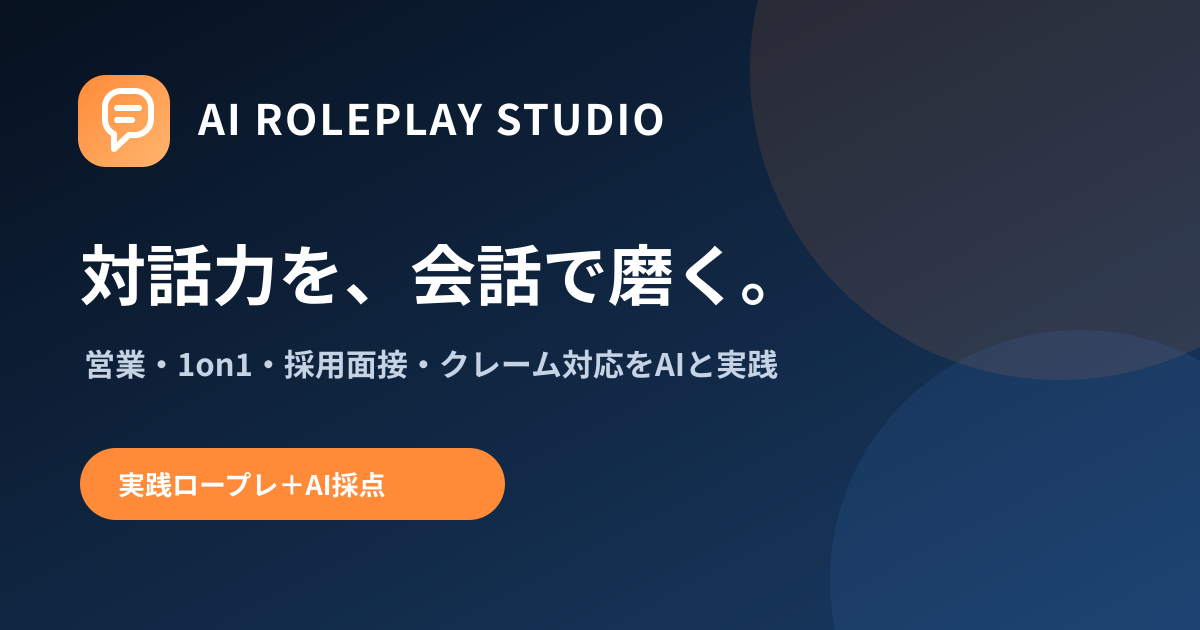
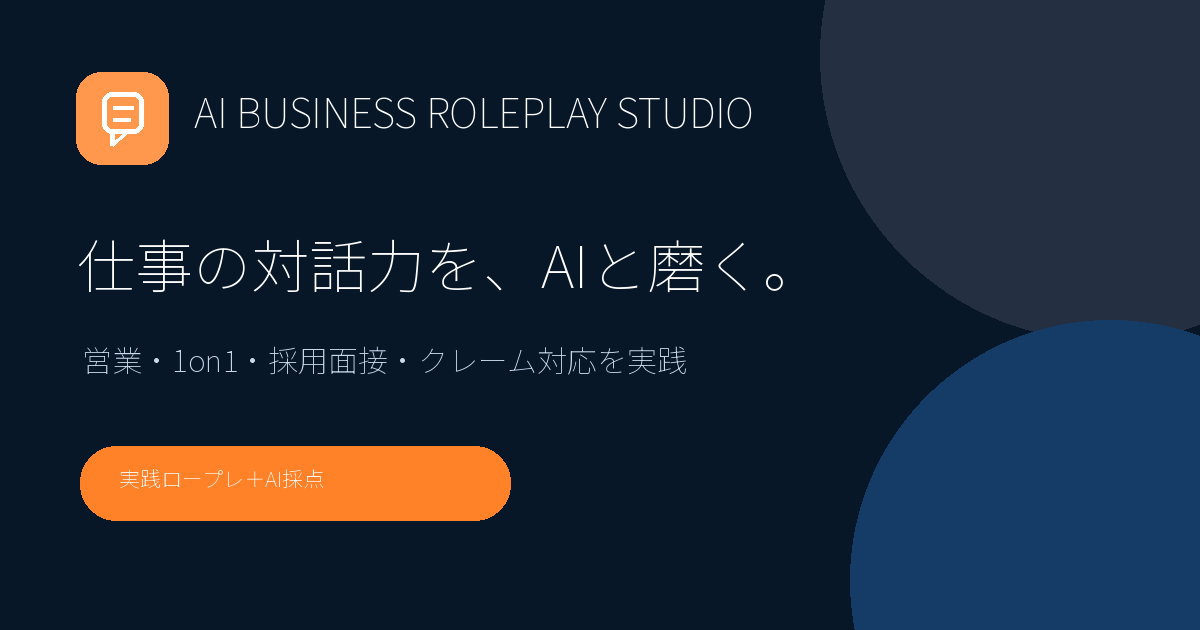
Add business roleplay branding and onboarding guide

diff --git a/public/index.html b/public/index.html
@@ -4,9 +4,9 @@
   <meta charset="utf-8">
   <meta name="viewport" content="width=device-width,initial-scale=1,viewport-fit=cover,interactive-widget=resizes-content">
   <meta name="theme-color" content="#07111f">
-  <meta name="description" content="AI顧客・部下・応募者との実践対話で、営業商談、1on1、採用面接、クレーム対応を練習。AI採点とフィードバックを受けられる無料体験付きロールプレイ研修アプリです。">
+  <meta name="description" content="AI顧客・部下・応募者との実践対話で、営業商談、1on1、採用面接、クレーム対応を練習。会話終了後にAIが採点し、良かった点と改善ポイントを具体的に提示します。ゲスト無料体験に対応。">
   <meta name="robots" content="index,follow,max-image-preview:large,max-snippet:-1,max-video-preview:-1">
-  <meta name="application-name" content="AI ROLEPLAY STUDIO">
+  <meta name="application-name" content="AIビジネスロールプレイスタジオ">
   <meta name="author" content="Grit Strategy Works">
   <meta name="google-site-verification" content="zbpYn_l9DVdW1Ev0OZdQOJDWLreuTin9i0nqUele1Mo">
   <meta name="google-adsense-account" content="ca-pub-5840457424714744">
@@ -14,17 +14,17 @@
   <link rel="alternate" hreflang="ja" href="https://roleplay.gritstrategyworks.com/">
   <link rel="alternate" hreflang="x-default" href="https://roleplay.gritstrategyworks.com/">
   <meta property="og:type" content="website">
-  <meta property="og:site_name" content="AI ROLEPLAY STUDIO">
+  <meta property="og:site_name" content="AIビジネスロールプレイスタジオ">
   <meta property="og:locale" content="ja_JP">
-  <meta property="og:title" content="AIロープレ研修｜営業・1on1・採用面接をAIと実践">
+  <meta property="og:title" content="AIビジネスロールプレイスタジオ｜営業・1on1・採用面接をAIと実践">
   <meta property="og:description" content="AI顧客や部下との対話で、営業商談・1on1・採用面接・クレーム対応を実践。終了後にAIが採点します。">
   <meta property="og:url" content="https://roleplay.gritstrategyworks.com/">
   <meta property="og:image" content="https://roleplay.gritstrategyworks.com/assets/og-image.png">
   <meta property="og:image:width" content="1200">
   <meta property="og:image:height" content="630">
-  <meta property="og:image:alt" content="AI ROLEPLAY STUDIOでAI相手に実践ロールプレイ研修">
+  <meta property="og:image:alt" content="AIビジネスロールプレイスタジオで仕事の対話を実践">
   <meta name="twitter:card" content="summary_large_image">
-  <meta name="twitter:title" content="AIロープレ研修｜AI ROLEPLAY STUDIO">
+  <meta name="twitter:title" content="AIビジネスロールプレイスタジオ｜AIロープレ研修">
   <meta name="twitter:description" content="営業・1on1・採用面接・クレーム対応をAI相手に実践し、採点と改善点を確認できます。">
   <meta name="twitter:image" content="https://roleplay.gritstrategyworks.com/assets/og-image.png">
   <script async src="https://pagead2.googlesyndication.com/pagead/js/adsbygoogle.js?client=ca-pub-5840457424714744" crossorigin="anonymous"></script>
@@ -36,17 +36,17 @@
     gtag('js', new Date());
     gtag('config', 'G-XH93D31BKJ');
   </script>
-  <title>AIロープレ研修｜営業・1on1・採用面接をAIと実践</title>
+  <title>AIビジネスロールプレイスタジオ｜営業・1on1・採用面接をAIと実践</title>
   <link rel="manifest" href="manifest.webmanifest">
   <link rel="icon" href="assets/icon.svg" type="image/svg+xml">
-  <link rel="stylesheet" href="styles.css?v=1.43">
-  <link rel="stylesheet" href="auth.css?v=1.43">
+  <link rel="stylesheet" href="styles.css?v=1.44">
+  <link rel="stylesheet" href="auth.css?v=1.44">
   <script type="application/ld+json">
   {
     "@context": "https://schema.org",
     "@type": "WebApplication",
-    "name": "AI ROLEPLAY STUDIO",
-    "alternateName": "AIロープレ",
+    "name": "AIビジネスロールプレイスタジオ",
+    "alternateName": ["AI Business Roleplay Studio", "AIロープレスタジオ"],
     "url": "https://roleplay.gritstrategyworks.com/",
     "image": "https://roleplay.gritstrategyworks.com/assets/og-image.png",
     "description": "AI顧客・部下・応募者との対話で、営業商談、1on1、採用面接、クレーム対応を練習できるロールプレイ研修アプリ。",
@@ -64,7 +64,7 @@
 <div id="authGate" class="auth-gate">
   <div class="auth-layout">
     <section class="auth-intro">
-      <div class="auth-brand"><span class="brand-mark" aria-hidden="true"><svg viewBox="0 0 24 24" fill="none"><path d="M6 8.2A4.2 4.2 0 0 1 10.2 4h3.6A4.2 4.2 0 0 1 18 8.2v3.1a4.2 4.2 0 0 1-4.2 4.2h-1.3L9 19v-3.5A4.2 4.2 0 0 1 6 11.3V8.2Z" stroke="white" stroke-width="2" stroke-linejoin="round"/><path d="M9 9h6M9 12h4" stroke="white" stroke-width="2" stroke-linecap="round"/></svg></span><span>AI ROLEPLAY STUDIO</span></div>
+      <div class="auth-brand"><span class="brand-mark" aria-hidden="true"><svg viewBox="0 0 24 24" fill="none"><path d="M6 8.2A4.2 4.2 0 0 1 10.2 4h3.6A4.2 4.2 0 0 1 18 8.2v3.1a4.2 4.2 0 0 1-4.2 4.2h-1.3L9 19v-3.5A4.2 4.2 0 0 1 6 11.3V8.2Z" stroke="white" stroke-width="2" stroke-linejoin="round"/><path d="M9 9h6M9 12h4" stroke="white" stroke-width="2" stroke-linecap="round"/></svg></span><span>AI BUSINESS ROLEPLAY STUDIO</span></div>
       <div><div class="eyebrow">AI実践ロールプレイ</div><h1>対話力を、<br>会話で磨く。</h1><p>アカウントで継続利用することも、ログインせずゲストとしてすぐ試すこともできます。</p></div>
       <ul class="auth-features"><li>基本設定と6種類のアバター</li><li>待ち時間を抑えたオンラインAI会話</li><li>入門講義2本は無料、全講義と詳細設定はPremium</li></ul>
     </section>
@@ -90,13 +90,63 @@
       </div>
     </section>
   </div>
+  <section class="auth-showcase" aria-labelledby="serviceOverviewTitle">
+    <div class="auth-showcase-heading">
+      <span class="eyebrow">BUSINESS ROLEPLAY TRAINING</span>
+      <h2 id="serviceOverviewTitle">3分で分かる<br class="mobile-only"> AIビジネスロールプレイスタジオ</h2>
+      <p>AIが顧客・部下・応募者・クレーム相手を演じ、仕事で必要な対話を実践的に練習できるWebアプリです。会話終了後にはAIが対話を採点し、良かった点、改善ポイント、次に使える一言を具体的に提示します。</p>
+    </div>
+    <div class="auth-step-grid" aria-label="利用の3ステップ">
+      <article><span class="auth-step-number">1</span><div class="auth-step-icon" aria-hidden="true">◎</div><h3>練習内容を選ぶ</h3><p>営業・商談、管理職面談、採用面接、クレーム対応から選択します。</p></article>
+      <article><span class="auth-step-number">2</span><div class="auth-step-icon" aria-hidden="true">💬</div><h3>AIと会話する</h3><p>文章入力またはマイクを使って、AIの相手役と実践的に会話します。</p></article>
+      <article><span class="auth-step-number">3</span><div class="auth-step-icon" aria-hidden="true">✓</div><h3>AIの採点を受ける</h3><p>総合・項目別スコア、良かった点、改善ポイント、次に使える一言を確認します。</p></article>
+    </div>
+    <div class="auth-showcase-actions"><button class="primary-btn" type="button" data-auth-guest-cta>ログインせず無料で試す</button><a class="secondary-btn" href="#authPlanComparison">無料版とPremium版を見る</a></div>
+
+    <section class="auth-score-sample" aria-labelledby="scoreSampleTitle">
+      <div class="sample-label">採点結果のサンプル</div>
+      <div class="auth-score-heading"><div><span class="eyebrow">AI FEEDBACK</span><h2 id="scoreSampleTitle">会話が終わると、AIが具体的にフィードバック</h2></div><div class="sample-score"><strong>82</strong><span>点</span><em>ランク A</em></div></div>
+      <div class="auth-score-content">
+        <div class="sample-score-list" aria-label="項目別スコア">
+          <div><span>質問力</span><i style="--score:85%"></i><strong>85</strong></div>
+          <div><span>傾聴力</span><i style="--score:88%"></i><strong>88</strong></div>
+          <div><span>課題把握</span><i style="--score:80%"></i><strong>80</strong></div>
+          <div><span>提案力</span><i style="--score:76%"></i><strong>76</strong></div>
+          <div><span>次の行動の確認</span><i style="--score:81%"></i><strong>81</strong></div>
+        </div>
+        <div class="sample-feedback-list">
+          <article class="good"><h3>✓ 良かった点</h3><p>相手の発言を受け止めながら、課題を具体化する質問ができました。</p></article>
+          <article class="improve"><h3>↗ 改善ポイント</h3><p>提案に入る前に、課題による業務への影響をもう一段深く確認しましょう。</p></article>
+          <article><h3>💬 次に使う一言</h3><p>「その課題によって、現在どのような影響が出ていますか？」</p></article>
+        </div>
+      </div>
+    </section>
+
+    <section id="authPlanComparison" class="auth-plan-comparison" aria-labelledby="authPlanTitle">
+      <div class="auth-showcase-heading"><span class="eyebrow">PLANS</span><h2 id="authPlanTitle">無料で始めて、必要に応じてPremiumへ</h2><p>まずは登録なしで体験できます。継続利用や詳細な分析が必要になったときにアップグレードできます。</p></div>
+      <div class="plan-comparison-table" role="table" aria-label="無料版とPremium版の比較">
+        <div class="plan-comparison-row plan-comparison-head" role="row"><span role="columnheader">機能</span><span role="columnheader">無料版</span><span role="columnheader">Premium</span></div>
+        <div class="plan-comparison-row" role="row"><strong role="cell">AIロールプレイ</strong><span role="cell">利用可能</span><span role="cell">利用可能</span></div>
+        <div class="plan-comparison-row" role="row"><strong role="cell">ロープレ時間</strong><span role="cell">5分</span><span role="cell">5分・10分・15分</span></div>
+        <div class="plan-comparison-row" role="row"><strong role="cell">基本設定</strong><span role="cell">利用可能</span><span role="cell">利用可能</span></div>
+        <div class="plan-comparison-row" role="row"><strong role="cell">詳細設定</strong><span role="cell">利用不可</span><span role="cell">利用可能</span></div>
+        <div class="plan-comparison-row" role="row"><strong role="cell">レクチャー動画</strong><span role="cell">入門2本</span><span role="cell">全16本</span></div>
+        <div class="plan-comparison-row" role="row"><strong role="cell">基本採点</strong><span role="cell">利用可能</span><span role="cell">利用可能</span></div>
+        <div class="plan-comparison-row" role="row"><strong role="cell">項目別スコア・詳細分析</strong><span role="cell">制限あり</span><span role="cell">利用可能</span></div>
+        <div class="plan-comparison-row" role="row"><strong role="cell">広告</strong><span role="cell">表示される場合あり</span><span role="cell">広告なし</span></div>
+        <div class="plan-comparison-row plan-comparison-price" role="row"><strong role="cell">料金</strong><span role="cell"><b>0円</b></span><span role="cell"><b>月額980円</b></span></div>
+      </div>
+      <div class="plan-comparison-actions"><button class="ghost-btn" type="button" data-auth-guest-cta>ログインせず試す</button><button class="primary-btn" type="button" data-auth-premium-cta>月額980円で始める</button></div>
+      <p class="plan-comparison-note">Premiumは1か月ごとの自動更新です。申込みにはアカウント作成が必要です。</p>
+    </section>
+  </section>
 </div>
 <dialog id="authPolicyDialog" class="auth-policy-dialog"><div class="auth-policy-head"><h2 id="authPolicyTitle"></h2><button id="authPolicyClose" type="button" aria-label="閉じる">×</button></div><div id="authPolicyContent" class="auth-policy-content"></div></dialog>
 <div id="appShell" class="app-shell" hidden>
   <header class="topbar">
     <div class="brand" role="button" tabindex="0" onclick="showScreen('home')" onkeydown="if(event.key==='Enter')showScreen('home')">
       <span class="brand-mark" aria-hidden="true"><svg viewBox="0 0 24 24" fill="none"><path d="M6 8.2A4.2 4.2 0 0 1 10.2 4h3.6A4.2 4.2 0 0 1 18 8.2v3.1a4.2 4.2 0 0 1-4.2 4.2h-1.3L9 19v-3.5A4.2 4.2 0 0 1 6 11.3V8.2Z" stroke="white" stroke-width="2" stroke-linejoin="round"/><path d="M9 9h6M9 12h4" stroke="white" stroke-width="2" stroke-linecap="round"/></svg></span>
-      <span class="brand-name">AI ROLEPLAY STUDIO</span>
+      <span class="brand-name"><span class="brand-name-full">AI BUSINESS ROLEPLAY STUDIO</span><span class="brand-name-short">AIロープレスタジオ</span></span>
     </div>
     <div class="top-actions">
       <div id="apiStatus" class="api-status" title="会話機能の利用状態"><span class="api-dot"></span><span id="apiStatusText">接続確認中</span></div>
@@ -261,11 +311,11 @@
           <button class="info-link" data-info="contact" onclick="showInformation('contact')">問い合わせ先</button>
         </nav>
         <div class="info-content">
-          <article id="info-pricing" class="info-section"><div class="status-banner success"><strong>プレミアムプラン申込み受付中</strong><span>Stripeの安全な決済画面でお申し込みいただけます。</span></div><h3>料金</h3><div class="pricing-card"><span>無料プラン</span><strong>0円</strong><p>基本設定、ロールプレイ、文字・マイク入力、総合評価、入門講義2本を利用できます。AdSense承認後は、ロープレ実施中を除く画面に広告が表示される場合があります。</p></div><div class="pricing-card featured"><span>AI Roleplay Studio Premium</span><strong>月額980円（税込）</strong><p>全16講義、研修担当者・上級者向けの詳細設定、項目別スコア、改善ポイント、次に使う一言、相手の本音、会話記録を利用できます。広告は表示されません。1か月ごとの自動更新です。</p><button class="primary-btn" type="button" onclick="startCheckout()">月額980円で申し込む</button></div><p class="legal-warning">申込み時に初回決済が行われ、以後1か月ごとに自動更新されます。次回更新日前まで、設定画面の「契約・支払いを管理」からいつでも解約できます。</p></article>
-<article id="info-operator" class="info-section" hidden><h3>運営者</h3><dl class="legal-list"><div><dt>運営者名</dt><dd>Grit Strategy Works</dd></div><div><dt>サービス名</dt><dd>AI ROLEPLAY STUDIO</dd></div><div><dt>有料プラン</dt><dd>AI Roleplay Studio Premium・月額980円（税込）</dd></div><div><dt>提供状況</dt><dd>申込み受付中</dd></div><div><dt>問い合わせ先</dt><dd><a href="mailto:gritstrategyworks@gmail.com">gritstrategyworks@gmail.com</a></dd></div></dl><p>販売事業者の氏名、運営責任者、所在地、電話番号は、法令に基づく請求があった場合に遅滞なく開示します。</p></article>
-<article id="info-commerce" class="info-section" hidden><h3>特定商取引法に基づく表記</h3><dl class="legal-list"><div><dt>販売事業者</dt><dd>Grit Strategy Works</dd></div><div><dt>運営責任者・所在地・電話番号</dt><dd>請求があった場合、法令に基づき遅滞なく開示します。</dd></div><div><dt>問い合わせ先</dt><dd><a href="mailto:gritstrategyworks@gmail.com">gritstrategyworks@gmail.com</a></dd></div><div><dt>販売価格</dt><dd>AI Roleplay Studio Premium：月額980円（税込）</dd></div><div><dt>商品代金以外の負担</dt><dd>インターネット接続・通信に必要な費用は利用者負担です。</dd></div><div><dt>支払方法・支払時期</dt><dd>Stripeの決済画面に表示される支払方法。申込み時に初回決済し、以後1か月ごとに自動更新します。</dd></div><div><dt>サービス提供時期</dt><dd>決済完了と契約状態の確認後、プレミアム機能を利用できます。</dd></div><div><dt>解約</dt><dd>設定画面からStripeの契約管理画面を開き、次回更新日前までいつでも解約できます。解約後も支払済み期間の終了まで利用できます。</dd></div><div><dt>返金</dt><dd>デジタルサービスの性質上、利用者都合による日割り返金は行いません。重複決済、サービスを提供できなかった場合、または法令上必要な場合は確認のうえ対応します。</dd></div></dl><p class="reference-links"><a href="https://www.no-trouble.caa.go.jp/what/mailorder/advertising.html" target="_blank" rel="noopener">消費者庁・特定商取引法ガイド</a></p></article>
-<article id="info-terms" class="info-section" hidden><h3>利用規約</h3><p class="policy-date">改定日：2026年8月11日</p><h4>1. 適用</h4><p>本規約は、Grit Strategy Worksが提供するAI ROLEPLAY STUDIOの利用条件を定めます。利用者は本規約に同意して本サービスを利用します。</p><h4>2. アカウント</h4><p>利用者は正確な情報でアカウントを作成し、パスワードとログイン端末を適切に管理します。第三者による不正利用を確認した場合は速やかにログアウトしてください。</p><h4>3. サービスの性質</h4><p>本サービスは対話練習を支援するもので、AIの応答・採点は参考情報です。正確性、完全性、特定目的への適合を保証するものではなく、採用・人事評価・契約・苦情処理などの最終判断は利用者が行います。</p><h4>4. 有料プラン</h4><p>Premiumは月額980円（税込）の1か月ごとの自動更新です。利用者が次回更新日前に解約しない限り契約は更新されます。価格や内容を変更する場合は、適用前にサイト上で案内します。</p><h4>5. 禁止事項</h4><p>法令違反、第三者の権利侵害、個人情報・機密情報の不適切な入力、サービスへの不正アクセス、過度な負荷、解析・転用による妨害を禁止します。</p><h4>6. 知的財産</h4><p>本サービスのプログラム、デザイン、画像等の権利は運営者または正当な権利者に帰属します。利用者が入力する内容の権利は利用者に留保されます。</p><h4>7. 変更・停止</h4><p>保守、障害、仕様改善、法令対応等によりサービス内容を変更または停止することがあります。重要な変更はサイト上で告知します。</p><h4>8. 準拠法</h4><p>本規約は日本法に準拠します。紛争が生じた場合は、法令に従い管轄裁判所を定めます。</p></article>
-          <article id="info-privacy" class="info-section" hidden><h3>プライバシーポリシー</h3><p class="policy-date">改定日：2026年8月12日</p><h4>取得・処理する情報</h4><p>ログイン用メールアドレス、ログイン状態を保つための情報、ロープレ設定、文字に変換された会話内容、採点結果、利用設定、接続状況に関する情報を処理する場合があります。パスワードは安全な方式で保護し、入力された文字列のまま保存しません。成績・設定・履歴は原則としてこの端末内に保存されます。音声入力では端末の音声認識機能を利用し、本サービスは録音データを保存しません。</p><h4>利用目的</h4><p>ロープレ応答・採点の提供、履歴表示、品質・安全性の維持、不正利用防止、問い合わせ対応、利用状況の分析、サービス改善、決済・契約管理、広告の配信・効果測定、法令遵守のために利用します。</p><h4>外部サービス・委託</h4><p>AI応答とサイト配信にCloudflareのクラウドサービス、利用状況の分析と広告配信にGoogle Analytics・Google AdSense、レクチャー動画の再生にYouTube、Premiumの決済・契約管理にStripe、共有用QRコードの生成にQR Serverを利用します。GoogleのサービスはCookie等を使用してページ閲覧、端末・ブラウザ、参照元、広告に関する情報を収集する場合があります。QR Serverへ送信するのは公開中のアプリURLのみで、アカウント情報やロープレの会話内容は送信しません。AIとの会話・採点に入力した内容は、応答生成のためCloudflare上のAI機能へ送信されます。ブラウザの音声認識・読み上げ機能を利用する場合、それぞれの提供者の条件が適用されます。</p><h4>利用者による管理</h4><p>設定画面の「全データ削除」で端末内の成績・設定・履歴を削除できます。Cookieはブラウザ設定で無効化できます。入力内容には第三者の個人情報、営業秘密、要配慮情報を含めないでください。</p><h4>安全管理・開示等</h4><p>アクセス制御、通信の暗号化、必要最小限の処理等を行います。保有個人データの開示・訂正・利用停止等は、問い合わせ先に記載のメールアドレスで受け付けます。</p><p class="reference-links"><a href="https://policies.google.com/privacy?hl=ja" target="_blank" rel="noopener">Googleプライバシーポリシー</a> <a href="https://stripe.com/jp/privacy" target="_blank" rel="noopener">Stripeプライバシーポリシー</a> <a href="https://goqr.me/privacy/" target="_blank" rel="noopener">QR Serverプライバシーポリシー</a> <a href="https://www.ppc.go.jp/personalinfo/legal/guidelines_tsusoku/" target="_blank" rel="noopener">個人情報保護委員会ガイドライン</a></p></article>
+          <article id="info-pricing" class="info-section"><div class="status-banner success"><strong>Premiumプラン申込み受付中</strong><span>Stripeの安全な決済画面でお申し込みいただけます。</span></div><h3>無料で始めて、必要に応じてPremiumへ</h3><p>無料版でも基本のロールプレイと採点を利用できます。より長い練習、詳細設定、詳しい分析、全レクチャーが必要な場合はPremiumをご利用ください。</p><div class="plan-comparison-table info-plan-table" role="table" aria-label="無料版とPremium版の比較"><div class="plan-comparison-row plan-comparison-head" role="row"><span role="columnheader">機能</span><span role="columnheader">無料版</span><span role="columnheader">Premium</span></div><div class="plan-comparison-row" role="row"><strong role="cell">AIロールプレイ</strong><span role="cell">利用可能</span><span role="cell">利用可能</span></div><div class="plan-comparison-row" role="row"><strong role="cell">ロープレ時間</strong><span role="cell">5分</span><span role="cell">5分・10分・15分</span></div><div class="plan-comparison-row" role="row"><strong role="cell">基本設定</strong><span role="cell">利用可能</span><span role="cell">利用可能</span></div><div class="plan-comparison-row" role="row"><strong role="cell">詳細設定</strong><span role="cell">利用不可</span><span role="cell">利用可能</span></div><div class="plan-comparison-row" role="row"><strong role="cell">レクチャー動画</strong><span role="cell">入門2本</span><span role="cell">全16本</span></div><div class="plan-comparison-row" role="row"><strong role="cell">基本採点</strong><span role="cell">利用可能</span><span role="cell">利用可能</span></div><div class="plan-comparison-row" role="row"><strong role="cell">項目別スコア・詳細分析</strong><span role="cell">制限あり</span><span role="cell">利用可能</span></div><div class="plan-comparison-row" role="row"><strong role="cell">広告</strong><span role="cell">表示される場合あり</span><span role="cell">広告なし</span></div><div class="plan-comparison-row plan-comparison-price" role="row"><strong role="cell">料金</strong><span role="cell"><b>0円</b></span><span role="cell"><b>月額980円</b></span></div></div><div class="plan-comparison-actions"><button class="ghost-btn" type="button" onclick="showScreen('home')">無料版でロープレを始める</button><button class="primary-btn" type="button" onclick="startCheckout()">月額980円で始める</button></div><p class="legal-warning">Premiumは申込み時に初回決済が行われ、以後1か月ごとに自動更新されます。次回更新日前まで、設定画面の「契約・支払いを管理」からいつでも解約できます。</p></article>
+<article id="info-operator" class="info-section" hidden><h3>運営者</h3><dl class="legal-list"><div><dt>運営者名</dt><dd>Grit Strategy Works</dd></div><div><dt>サービス名</dt><dd>AIビジネスロールプレイスタジオ</dd></div><div><dt>有料プラン</dt><dd>AIビジネスロールプレイスタジオ Premium・月額980円（税込）</dd></div><div><dt>提供状況</dt><dd>申込み受付中</dd></div><div><dt>問い合わせ先</dt><dd><a href="mailto:gritstrategyworks@gmail.com">gritstrategyworks@gmail.com</a></dd></div></dl><p>販売事業者の氏名、運営責任者、所在地、電話番号は、法令に基づく請求があった場合に遅滞なく開示します。</p></article>
+<article id="info-commerce" class="info-section" hidden><h3>特定商取引法に基づく表記</h3><dl class="legal-list"><div><dt>販売事業者</dt><dd>Grit Strategy Works</dd></div><div><dt>運営責任者・所在地・電話番号</dt><dd>請求があった場合、法令に基づき遅滞なく開示します。</dd></div><div><dt>問い合わせ先</dt><dd><a href="mailto:gritstrategyworks@gmail.com">gritstrategyworks@gmail.com</a></dd></div><div><dt>販売価格</dt><dd>AIビジネスロールプレイスタジオ Premium：月額980円（税込）</dd></div><div><dt>商品代金以外の負担</dt><dd>インターネット接続・通信に必要な費用は利用者負担です。</dd></div><div><dt>支払方法・支払時期</dt><dd>Stripeの決済画面に表示される支払方法。申込み時に初回決済し、以後1か月ごとに自動更新します。</dd></div><div><dt>サービス提供時期</dt><dd>決済完了と契約状態の確認後、プレミアム機能を利用できます。</dd></div><div><dt>解約</dt><dd>設定画面からStripeの契約管理画面を開き、次回更新日前までいつでも解約できます。解約後も支払済み期間の終了まで利用できます。</dd></div><div><dt>返金</dt><dd>デジタルサービスの性質上、利用者都合による日割り返金は行いません。重複決済、サービスを提供できなかった場合、または法令上必要な場合は確認のうえ対応します。</dd></div></dl><p class="reference-links"><a href="https://www.no-trouble.caa.go.jp/what/mailorder/advertising.html" target="_blank" rel="noopener">消費者庁・特定商取引法ガイド</a></p></article>
+<article id="info-terms" class="info-section" hidden><h3>利用規約</h3><p class="policy-date">改定日：2026年8月15日</p><h4>1. 適用</h4><p>本規約は、Grit Strategy Worksが提供するAIビジネスロールプレイスタジオの利用条件を定めます。利用者は本規約に同意して本サービスを利用します。</p><h4>2. アカウント</h4><p>利用者は正確な情報でアカウントを作成し、パスワードとログイン端末を適切に管理します。第三者による不正利用を確認した場合は速やかにログアウトしてください。</p><h4>3. サービスの性質</h4><p>本サービスは対話練習を支援するもので、AIの応答・採点は参考情報です。正確性、完全性、特定目的への適合を保証するものではなく、採用・人事評価・契約・苦情処理などの最終判断は利用者が行います。</p><h4>4. 有料プラン</h4><p>Premiumは月額980円（税込）の1か月ごとの自動更新です。利用者が次回更新日前に解約しない限り契約は更新されます。価格や内容を変更する場合は、適用前にサイト上で案内します。</p><h4>5. 禁止事項</h4><p>法令違反、第三者の権利侵害、個人情報・機密情報の不適切な入力、サービスへの不正アクセス、過度な負荷、解析・転用による妨害を禁止します。</p><h4>6. 知的財産</h4><p>本サービスのプログラム、デザイン、画像等の権利は運営者または正当な権利者に帰属します。利用者が入力する内容の権利は利用者に留保されます。</p><h4>7. 変更・停止</h4><p>保守、障害、仕様改善、法令対応等によりサービス内容を変更または停止することがあります。重要な変更はサイト上で告知します。</p><h4>8. 準拠法</h4><p>本規約は日本法に準拠します。紛争が生じた場合は、法令に従い管轄裁判所を定めます。</p></article>
+          <article id="info-privacy" class="info-section" hidden><h3>AIビジネスロールプレイスタジオ プライバシーポリシー</h3><p class="policy-date">改定日：2026年8月15日</p><h4>取得・処理する情報</h4><p>ログイン用メールアドレス、ログイン状態を保つための情報、ロープレ設定、文字に変換された会話内容、採点結果、利用設定、接続状況に関する情報を処理する場合があります。パスワードは安全な方式で保護し、入力された文字列のまま保存しません。成績・設定・履歴は原則としてこの端末内に保存されます。音声入力では端末の音声認識機能を利用し、本サービスは録音データを保存しません。</p><h4>利用目的</h4><p>ロープレ応答・採点の提供、履歴表示、品質・安全性の維持、不正利用防止、問い合わせ対応、利用状況の分析、サービス改善、決済・契約管理、広告の配信・効果測定、法令遵守のために利用します。</p><h4>外部サービス・委託</h4><p>AI応答とサイト配信にCloudflareのクラウドサービス、利用状況の分析と広告配信にGoogle Analytics・Google AdSense、レクチャー動画の再生にYouTube、Premiumの決済・契約管理にStripe、共有用QRコードの生成にQR Serverを利用します。GoogleのサービスはCookie等を使用してページ閲覧、端末・ブラウザ、参照元、広告に関する情報を収集する場合があります。QR Serverへ送信するのは公開中のアプリURLのみで、アカウント情報やロープレの会話内容は送信しません。AIとの会話・採点に入力した内容は、応答生成のためCloudflare上のAI機能へ送信されます。ブラウザの音声認識・読み上げ機能を利用する場合、それぞれの提供者の条件が適用されます。</p><h4>利用者による管理</h4><p>設定画面の「全データ削除」で端末内の成績・設定・履歴を削除できます。Cookieはブラウザ設定で無効化できます。入力内容には第三者の個人情報、営業秘密、要配慮情報を含めないでください。</p><h4>安全管理・開示等</h4><p>アクセス制御、通信の暗号化、必要最小限の処理等を行います。保有個人データの開示・訂正・利用停止等は、問い合わせ先に記載のメールアドレスで受け付けます。</p><p class="reference-links"><a href="https://policies.google.com/privacy?hl=ja" target="_blank" rel="noopener">Googleプライバシーポリシー</a> <a href="https://stripe.com/jp/privacy" target="_blank" rel="noopener">Stripeプライバシーポリシー</a> <a href="https://goqr.me/privacy/" target="_blank" rel="noopener">QR Serverプライバシーポリシー</a> <a href="https://www.ppc.go.jp/personalinfo/legal/guidelines_tsusoku/" target="_blank" rel="noopener">個人情報保護委員会ガイドライン</a></p></article>
           <article id="info-cancellation" class="info-section" hidden><h3>解約方法</h3><p>Premium契約者は、設定画面の「契約・支払いを管理」からStripeの契約管理画面を開き、次回更新日前までに解約できます。</p><p>解約後も支払済み期間の終了まではプレミアム機能を利用でき、期間終了後は自動的に無料プランへ切り替わります。</p></article>
           <article id="info-refund" class="info-section" hidden><h3>返金方針</h3><p>デジタルサービスの性質上、利用者都合による支払済み期間の途中解約について、日割り返金は行いません。</p><p>重複決済、当方の責めに帰すべき事由でサービスを提供できなかった場合、または法令上返金が必要な場合は、確認のうえ対応します。申請窓口は有料プランの申込み開始前に掲載します。</p></article>
           <article id="info-contact" class="info-section" hidden><h3>問い合わせ先</h3><p>サービス、契約、請求、返金、個人情報に関するお問い合わせは、次のメールアドレスへご連絡ください。</p><p class="contact-address"><a href="mailto:gritstrategyworks@gmail.com">gritstrategyworks@gmail.com</a></p><p class="legal-warning">内容を確認のうえ、原則として5営業日以内を目安に返信します。</p></article>
@@ -293,7 +343,7 @@
       </div>
     </section>
   </main>
-  <footer class="site-footer"><div><strong>AI ROLEPLAY STUDIO</strong><span>運営者：Grit Strategy Works</span></div><nav aria-label="フッターナビゲーション"><button onclick="showInformation('pricing')">料金</button><button onclick="showInformation('operator')">運営者</button><button onclick="showInformation('commerce')">特定商取引法に基づく表記</button><button onclick="showInformation('terms')">利用規約</button><button onclick="showInformation('privacy')">プライバシーポリシー</button><button onclick="showInformation('cancellation')">解約方法</button><button onclick="showInformation('refund')">返金方針</button><button onclick="showInformation('contact')">問い合わせ先</button></nav></footer>
+  <footer class="site-footer"><div><strong>AIビジネスロールプレイスタジオ</strong><span>運営者：Grit Strategy Works</span></div><nav aria-label="フッターナビゲーション"><button onclick="showInformation('pricing')">料金</button><button onclick="showInformation('operator')">運営者</button><button onclick="showInformation('commerce')">特定商取引法に基づく表記</button><button onclick="showInformation('terms')">利用規約</button><button onclick="showInformation('privacy')">プライバシーポリシー</button><button onclick="showInformation('cancellation')">解約方法</button><button onclick="showInformation('refund')">返金方針</button><button onclick="showInformation('contact')">問い合わせ先</button></nav></footer>
 
 
   <nav class="bottom-nav" aria-label="メインナビゲーション">
@@ -344,15 +394,15 @@
   <div class="modal share-modal">
     <button class="modal-corner-close" type="button" aria-label="閉じる" onclick="closeShareModal()">×</button>
     <p class="end-modal-eyebrow">SHARE APP</p>
-    <h3 id="shareModalTitle">AI ROLEPLAY STUDIOを紹介</h3>
+    <h3 id="shareModalTitle">AIロープレスタジオを紹介</h3>
     <p>リンクを送るか、スマートフォンでQRコードを読み取ってください。</p>
-    <div class="share-qr-wrap"><img id="shareQrImage" alt="AI ROLEPLAY STUDIOの共有用QRコード" width="220" height="220"></div>
+    <div class="share-qr-wrap"><img id="shareQrImage" alt="AIロープレスタジオの共有用QRコード" width="220" height="220"></div>
     <label class="share-link-field">公開URL<input id="shareLinkInput" type="text" readonly value="https://roleplay.gritstrategyworks.com/"></label>
     <div class="modal-actions share-modal-actions"><button class="ghost-btn" type="button" onclick="copyShareLink()">リンクをコピー</button><button class="primary-btn" type="button" onclick="shareApp()">共有する</button></div>
     <p class="share-privacy-note">QRコード生成先へ送信するのは、この公開URLだけです。</p>
   </div>
 </div>
 <div id="loadingOverlay" class="loading-overlay"><div class="loading-box"><div class="spinner"></div><strong>会話を振り返っています</strong><p style="color:#b9c7d9;font-size:13px">評価と改善ポイントを作成中です</p></div></div>
-<script src="auth.js?v=1.43" defer></script>
+<script src="auth.js?v=1.44" defer></script>
 </body>
 </html>

diff --git a/public/auth.css b/public/auth.css
@@ -62,3 +62,40 @@ body.auth-pending{overflow:auto;background:#07111f}
 @media(max-width:800px){.auth-gate{padding:20px}.auth-layout{grid-template-columns:1fr}.auth-intro{display:none}.auth-card{min-height:auto}.user-pill{display:none}.logout-btn{padding:0 9px}.top-actions{gap:5px}}
 @media(max-width:480px){.auth-card{padding:24px 18px;border-radius:22px}.auth-heading h2{font-size:26px}.account-setting{align-items:flex-start;flex-direction:column}.account-setting .ghost-btn{width:100%}}
 .auth-text-button{display:block;margin:12px auto 0;border:0;background:transparent;color:#315d8a;text-decoration:underline;cursor:pointer;font:inherit;font-size:13px}.auth-text-button:disabled{opacity:.55;cursor:wait}
+
+/* Logged-out service guide */
+.auth-gate{display:block;overflow-x:hidden}
+.auth-layout{min-height:calc(100vh - clamp(40px,10vw,128px));margin:0 auto}
+.auth-showcase{width:min(1080px,100%);margin:clamp(54px,8vw,96px) auto 0;padding-bottom:clamp(30px,5vw,64px);scroll-margin-top:24px}
+.auth-showcase-heading{max-width:780px;margin:0 auto 34px;text-align:center}
+.auth-showcase-heading .eyebrow,.auth-score-heading .eyebrow{color:#ffad73}
+.auth-showcase-heading h2,.auth-score-heading h2{margin:10px 0 14px;color:#fff;font-size:clamp(28px,4vw,46px);line-height:1.25}
+.auth-showcase-heading p{margin:0;color:#bfd0e4;font-size:15px;line-height:1.9}
+.mobile-only{display:none}
+.auth-step-grid{display:grid;grid-template-columns:repeat(3,1fr);gap:18px}
+.auth-step-grid article{position:relative;min-width:0;padding:28px 24px;border:1px solid rgba(255,255,255,.13);border-radius:22px;background:rgba(255,255,255,.075)}
+.auth-step-grid h3{margin:14px 0 8px;color:#fff;font-size:19px}
+.auth-step-grid p{margin:0;color:#bdd0e5;font-size:13px;line-height:1.75}
+.auth-step-number{position:absolute;top:18px;right:20px;color:rgba(255,255,255,.18);font-size:42px;font-weight:900}
+.auth-step-icon{display:grid;place-items:center;width:48px;height:48px;border-radius:15px;color:#fff;background:linear-gradient(135deg,#ff8b38,#ff6d18);font-size:23px;font-weight:900}
+.auth-showcase-actions,.plan-comparison-actions{display:flex;justify-content:center;gap:12px;margin-top:26px}
+.auth-showcase-actions a{display:inline-flex;align-items:center;justify-content:center;text-decoration:none}
+.auth-score-sample,.auth-plan-comparison{position:relative;margin-top:clamp(56px,8vw,90px);padding:clamp(24px,4vw,48px);border:1px solid rgba(255,255,255,.14);border-radius:28px;background:#f8fafc;color:var(--ink);box-shadow:0 28px 70px rgba(0,0,0,.2)}
+.sample-label{position:absolute;top:-14px;left:24px;padding:7px 13px;border-radius:999px;color:#fff;background:var(--orange);font-size:11px;font-weight:900}
+.auth-score-heading{display:flex;align-items:center;justify-content:space-between;gap:20px;margin-bottom:28px}
+.auth-score-heading h2{max-width:680px;color:var(--ink);font-size:clamp(24px,3.3vw,38px)}
+.sample-score{display:grid;grid-template-columns:auto auto;align-items:end;min-width:135px;color:var(--orange);text-align:center}
+.sample-score strong{font-size:64px;line-height:.9}.sample-score span{font-weight:900}.sample-score em{grid-column:1/-1;margin-top:8px;padding:6px;border-radius:999px;color:#fff;background:var(--navy-800);font-size:12px;font-style:normal;font-weight:900}
+.auth-score-content{display:grid;grid-template-columns:.9fr 1.1fr;gap:26px}
+.sample-score-list{display:grid;gap:16px;padding:23px;border-radius:20px;background:#eaf0f6}
+.sample-score-list>div{display:grid;grid-template-columns:minmax(92px,1fr) 1.5fr 30px;align-items:center;gap:10px;font-size:12px}
+.sample-score-list span{font-weight:800}.sample-score-list i{height:8px;border-radius:999px;background:linear-gradient(90deg,var(--teal) var(--score),#cad5e2 var(--score));}.sample-score-list strong{text-align:right}
+.sample-feedback-list{display:grid;gap:12px}.sample-feedback-list article{padding:18px 19px;border:1px solid #dce4ed;border-radius:17px;background:#fff}.sample-feedback-list article.good{border-left:4px solid #35b77c}.sample-feedback-list article.improve{border-left:4px solid #ff9c49}.sample-feedback-list h3{margin:0 0 7px;font-size:14px}.sample-feedback-list p{margin:0;color:#53647a;font-size:13px;line-height:1.7}
+.auth-plan-comparison{background:#fff}
+.auth-plan-comparison .auth-showcase-heading h2{color:var(--ink)}.auth-plan-comparison .auth-showcase-heading p{color:var(--muted)}
+.plan-comparison-table{overflow:hidden;border:1px solid #dbe3ec;border-radius:18px}
+.plan-comparison-row{display:grid;grid-template-columns:minmax(150px,1.4fr) minmax(100px,.8fr) minmax(130px,1fr);min-width:0;border-top:1px solid #e2e8ef}
+.plan-comparison-row:first-child{border-top:0}.plan-comparison-row>*{min-width:0;padding:13px 15px;overflow-wrap:anywhere}.plan-comparison-row>*+*{border-left:1px solid #e2e8ef}.plan-comparison-row span{color:#526176;font-size:13px}.plan-comparison-row span:last-child{color:#123f6a;background:#f1faf7}.plan-comparison-head{color:#fff;background:var(--navy-800);font-weight:900}.plan-comparison-head span,.plan-comparison-head span:last-child{color:#fff;background:transparent}.plan-comparison-price b{font-size:18px;color:var(--orange)}
+.plan-comparison-actions .ghost-btn{border-color:#aebdcd}.plan-comparison-note{text-align:center;color:#6d7d90;font-size:11px}
+@media(max-width:800px){.auth-layout{min-height:auto}.auth-showcase{margin-top:54px}.auth-step-grid{grid-template-columns:1fr}.auth-score-content{grid-template-columns:1fr}.auth-score-heading{align-items:flex-start}.auth-brand{font-size:12px}.auth-showcase-heading p{font-size:14px}}
+@media(max-width:520px){.auth-gate{padding:16px}.mobile-only{display:block}.auth-showcase-heading h2{font-size:27px}.auth-showcase-actions,.plan-comparison-actions{flex-direction:column}.auth-showcase-actions>* ,.plan-comparison-actions>*{width:100%;min-height:50px}.auth-score-sample,.auth-plan-comparison{padding:26px 14px 20px;border-radius:22px}.auth-score-heading{display:grid;grid-template-columns:1fr auto;gap:8px}.auth-score-heading h2{font-size:22px}.sample-score{min-width:78px}.sample-score strong{font-size:44px}.sample-score-list{padding:18px 12px}.sample-score-list>div{grid-template-columns:minmax(80px,1fr) 1.1fr 25px;gap:6px}.plan-comparison-row{grid-template-columns:minmax(92px,1.25fr) minmax(72px,.82fr) minmax(86px,1fr)}.plan-comparison-row>*{padding:11px 7px;font-size:10px!important}.plan-comparison-price b{font-size:14px}.auth-step-grid article{padding:23px 20px}}

diff --git a/public/app.js b/public/app.js
@@ -415,7 +415,7 @@ async function copyShareLink(){
   catch{const input=document.getElementById('shareLinkInput');input?.select();document.execCommand('copy');toast('公開リンクをコピーしました')}
 }
 async function shareApp(){
-  if(navigator.share){try{await navigator.share({title:'AI ROLEPLAY STUDIO',text:'AIで仕事の対話力を練習できるロールプレイアプリです。',url:APP_SHARE_URL});return}catch(error){if(error?.name==='AbortError')return}}
+  if(navigator.share){try{await navigator.share({title:'AIビジネスロールプレイスタジオ',text:'AIで仕事の対話力を練習できるロールプレイアプリです。',url:APP_SHARE_URL});return}catch(error){if(error?.name==='AbortError')return}}
   await copyShareLink();
 }
 function renderAdPlacement(){
@@ -475,6 +475,10 @@ async function startCheckout(){
     billingActionPending=false;renderBilling();
   }
 }
+async function startCheckoutWhenReady(){
+  await loadBillingStatus();
+  return startCheckout();
+}
 async function openBillingPortal(){
   if(billingActionPending)return;
   billingActionPending=true;renderBilling();toast('Stripeの契約管理画面を開いています');
@@ -515,7 +519,7 @@ async function initBilling(){
     if(returned){await loadBillingStatus();toast('契約情報を更新しました')}
   }
 }
-function downloadLatestReport(){const r=state.lastResult||loadHistory()[0];if(!r){toast('出力できる結果がありません');return}const lines=[`AI ROLEPLAY STUDIO トレーニング結果`,`日時: ${new Date(r.date).toLocaleString('ja-JP')}`,`カテゴリー: ${CATEGORY_LABELS[r.category]||r.category}`,`シナリオ: ${r.scenarioTitle}`,`相手: ${r.avatarName||''}`,`総合スコア: ${r.total}/100`,``,`項目別スコア`,...(r.scores||[]).map(x=>`${x.name}: ${x.score}`),``,`良かった点`,r.good||'',``,`改善ポイント`,r.improve||'',``,`次に使う一言`,r.nextPhrase||'',``,`相手の本音`,r.hiddenNeed||'',``,`会話記録`,...(r.conversation||[]).map(m=>`${m.role==='user'?'あなた':r.avatarName||'相手'}: ${m.text}`)];downloadText(`roleplay-report-${new Date(r.date).toISOString().slice(0,10)}.txt`,lines.join('\n'))}
+function downloadLatestReport(){const r=state.lastResult||loadHistory()[0];if(!r){toast('出力できる結果がありません');return}const lines=[`AIビジネスロールプレイスタジオ トレーニング結果`,`日時: ${new Date(r.date).toLocaleString('ja-JP')}`,`カテゴリー: ${CATEGORY_LABELS[r.category]||r.category}`,`シナリオ: ${r.scenarioTitle}`,`相手: ${r.avatarName||''}`,`総合スコア: ${r.total}/100`,``,`項目別スコア`,...(r.scores||[]).map(x=>`${x.name}: ${x.score}`),``,`良かった点`,r.good||'',``,`改善ポイント`,r.improve||'',``,`次に使う一言`,r.nextPhrase||'',``,`相手の本音`,r.hiddenNeed||'',``,`会話記録`,...(r.conversation||[]).map(m=>`${m.role==='user'?'あなた':r.avatarName||'相手'}: ${m.text}`)];downloadText(`roleplay-report-${new Date(r.date).toISOString().slice(0,10)}.txt`,lines.join('\n'))}
 function exportAllHistory(){const h=loadHistory();if(!h.length){toast('出力できる履歴がありません');return}downloadText(`roleplay-history-${new Date().toISOString().slice(0,10)}.json`,JSON.stringify(h,null,2),'application/json')}
 function downloadText(name,text,type='text/plain'){const blob=new Blob([text],{type:`${type};charset=utf-8`});const url=URL.createObjectURL(blob);const a=document.createElement('a');a.href=url;a.download=name;document.body.appendChild(a);a.click();a.remove();setTimeout(()=>URL.revokeObjectURL(url),1000)}
 function confirmResetData(){if(confirm('成績・設定・履歴をすべて削除します。よろしいですか？')){try{localStorage.removeItem(APP_KEY);localStorage.removeItem(SETTINGS_KEY)}catch{}settings={...DEFAULT_SETTINGS};renderHome();renderSettings();toast('データを削除しました')}}

diff --git a/public/auth.js b/public/auth.js
@@ -27,6 +27,7 @@
   const policyDialog = document.getElementById('authPolicyDialog');
   const policyTitle = document.getElementById('authPolicyTitle');
   const policyContent = document.getElementById('authPolicyContent');
+  const POST_AUTH_ACTION_KEY = 'ai-roleplay-post-auth-action';
 
   function setStatus(message, type) {
     status.textContent = message || '';
@@ -115,14 +116,23 @@
     loading.hidden = false;
     panel.hidden = true;
     document.getElementById('authLoadingText').textContent = 'アプリを準備しています';
-    await loadScript('scenario-design.js?v=1.43');
-    await loadScript('app.js?v=1.43');
+    await loadScript('scenario-design.js?v=1.44');
+    await loadScript('app.js?v=1.44');
     appLoaded = true;
     loadedUserId = currentUser.id;
     setUserLabels(currentUser);
     appShell.hidden = false;
     gate.hidden = true;
     document.body.classList.remove('auth-pending');
+  }
+
+  function runPostAuthAction() {
+    if (currentUser?.guest || sessionStorage.getItem(POST_AUTH_ACTION_KEY) !== 'checkout') return;
+    sessionStorage.removeItem(POST_AUTH_ACTION_KEY);
+    window.setTimeout(function () {
+      if (typeof window.startCheckoutWhenReady === 'function') window.startCheckoutWhenReady();
+      else if (typeof window.startCheckout === 'function') window.startCheckout();
+    }, 150);
   }
 
   async function unlock(data) {
@@ -135,6 +145,7 @@
     }
     try {
       await loadApplication();
+      runPostAuthAction();
     } catch (error) {
       console.error(error);
       showGate(error.message || 'アプリを読み込めませんでした。');
@@ -228,6 +239,16 @@
     }
   }
 
+  function preparePremiumSignup() {
+    sessionStorage.setItem(POST_AUTH_ACTION_KEY, 'checkout');
+    setMode(signupEnabled ? 'register' : 'login');
+    document.querySelector('.auth-card')?.scrollIntoView({ behavior: 'smooth', block: 'center' });
+    setStatus(signupEnabled
+      ? 'Premiumのお申込みにはアカウント作成が必要です。作成後、既存のStripe決済画面へ進みます。'
+      : 'Premiumのお申込みにはログインが必要です。ログイン後、既存のStripe決済画面へ進みます。', 'success');
+    window.setTimeout(function () { emailInput.focus(); }, 450);
+  }
+
   async function logout() {
     const buttons = document.querySelectorAll('[data-auth-logout]');
     buttons.forEach(function (button) { button.disabled = true; });
@@ -294,6 +315,12 @@
   registerTab.addEventListener('click', function () { setMode('register'); });
   resetToggle.addEventListener('click', function () { setMode(authMode.startsWith('reset-') ? 'login' : 'reset-request'); });
   guestButton.addEventListener('click', enterGuest);
+  document.querySelectorAll('[data-auth-guest-cta]').forEach(function (button) {
+    button.addEventListener('click', enterGuest);
+  });
+  document.querySelectorAll('[data-auth-premium-cta]').forEach(function (button) {
+    button.addEventListener('click', preparePremiumSignup);
+  });
   document.querySelectorAll('[data-auth-logout]').forEach(function (button) {
     button.addEventListener('click', logout);
   });

diff --git a/src/index.js b/src/index.js
@@ -593,8 +593,8 @@ async function sendPasswordResetEmail(env, email, resetUrl) {
     body: JSON.stringify({
       from: env.PASSWORD_RESET_FROM,
       to: [email],
-      subject: "【AI ROLEPLAY STUDIO】パスワード再設定",
-      html: `<div style="font-family:sans-serif;line-height:1.8;color:#17263a"><h2>パスワード再設定</h2><p>以下のボタンから30分以内に新しいパスワードを設定してください。</p><p><a href="${resetUrl}" style="display:inline-block;padding:12px 20px;border-radius:10px;background:#f47c2c;color:#fff;text-decoration:none;font-weight:bold">パスワードを再設定する</a></p><p>このリンクは一度だけ使用できます。心当たりがない場合は、このメールを無視してください。</p></div>`
+      subject: "【AIビジネスロールプレイスタジオ】パスワード再設定",
+      html: `<div style="font-family:sans-serif;line-height:1.8;color:#17263a"><h2>パスワード再設定</h2><p>以下のボタンから30分以内に新しいパスワードを設定してください。</p><p><a href="${resetUrl}" style="display:inline-block;padding:12px 20px;border-radius:10px;background:#f47c2c;color:#fff;text-decoration:none;font-weight:bold">パスワードを再設定する</a></p><p>このリンクは一度だけ使用できます。心当たりがない場合は、このメールを無視してください。</p><p style="color:#6b7788;font-size:12px">AIビジネスロールプレイスタジオ</p></div>`
     })
   });
   if (!response.ok) throw new Error(`Resend API returned ${response.status}.`);
@@ -1265,7 +1265,7 @@ var HEADERS = {
 async function onRequestGet3(context) {
   return Response.json({
     ok: true,
-    service: "AI Roleplay Studio API",
+    service: "AI Business Roleplay Studio API",
     aiConfigured: Boolean(context.env.AI),
     model: context.env.AI ? MODEL : null
   }, { headers: HEADERS });

diff --git a/public/service-worker.js b/public/service-worker.js
@@ -1,6 +1,6 @@
-const CACHE='ai-roleplay-studio-v1-43-roleplay-timing';
+const CACHE='ai-roleplay-studio-v1-44-business-onboarding';
 const BASE=new URL('./',self.location.href);
-const CORE=['index.html','styles.css?v=1.43','auth.css?v=1.43','auth.js?v=1.43','app.js?v=1.43','scenario-design.js?v=1.43','manifest.webmanifest','robots.txt','sitemap.xml','assets/icon.svg','assets/og-image.png'].map(path=>new URL(path,BASE).href);
+const CORE=['index.html','styles.css?v=1.44','auth.css?v=1.44','auth.js?v=1.44','app.js?v=1.44','scenario-design.js?v=1.44','manifest.webmanifest','robots.txt','sitemap.xml','assets/icon.svg','assets/og-image.png'].map(path=>new URL(path,BASE).href);
 self.addEventListener('install',event=>{event.waitUntil(caches.open(CACHE).then(cache=>cache.addAll(CORE)).then(()=>self.skipWaiting()))});
 self.addEventListener('activate',event=>{event.waitUntil(caches.keys().then(keys=>Promise.all(keys.filter(key=>key!==CACHE).map(key=>caches.delete(key)))).then(()=>self.clients.claim()))});
 self.addEventListener('fetch',event=>{

diff --git a/public/styles.css b/public/styles.css
@@ -334,3 +334,7 @@ body.roleplay-active .end-btn:hover{background:#ffe8e8;border-color:#df8888}
 .time-limit-action[hidden]{display:none}
 .time-limit-action button{flex:none;border:0;border-radius:9px;background:var(--red);color:#fff;padding:8px 11px;font-size:11px;font-weight:900}
 @media(max-width:650px){body.roleplay-active .time-limit-action{align-items:stretch;flex-direction:column}body.roleplay-active .time-limit-action button{min-height:40px;width:100%}}
+.brand-name-short{display:none}
+@media(max-width:720px){.brand-name-full{display:none}.brand-name-short{display:inline}.brand-name{font-size:14px;letter-spacing:.01em}}
+.info-plan-table{margin:22px 0}.info-plan-table+.plan-comparison-actions{margin:20px 0}.info-section .plan-comparison-row strong{font-size:13px}
+@media(max-width:520px){.info-section .plan-comparison-actions{flex-direction:column}.info-section .plan-comparison-actions button{width:100%}}

diff --git a/public/roleplay.js b/public/roleplay.js
@@ -72,7 +72,7 @@ const HEADERS = {
 export async function onRequestGet(context) {
   return Response.json({
     ok: true,
-    service: 'AI Roleplay Studio API',
+    service: 'AI Business Roleplay Studio API',
     aiConfigured: Boolean(context.env.AI),
     model: context.env.AI ? MODEL : null,
   }, { headers: HEADERS });

diff --git a/README.md b/README.md
@@ -1,4 +1,6 @@
-# AI ROLEPLAY STUDIO
+# AIビジネスロールプレイスタジオ
+
+**AI Business Roleplay Studio**
 
 Cloudflare Workersで公開する、AI実践ロールプレイWebアプリです。
 
@@ -28,11 +30,13 @@ Cloudflare Workersで公開する、AI実践ロールプレイWebアプリです
 | 機能 | 無料 | Premium |
 | --- | --- | --- |
 | 基本設定・AIロープレ・文字・マイク入力 | 利用可 | 利用可 |
+| ロープレ時間 | 5分 | 5分・10分・15分 |
 | 総合評価 | 利用可 | 利用可 |
 | レクチャー動画 | 入門2本 | 全16本 |
 | 研修担当者・上級者向け詳細設定 | ロック | 利用可 |
 | 項目別スコア・改善ポイント・会話記録 | ロック | 利用可 |
 | 広告 | 審査承認後、ロープレ外で表示予定 | 非表示 |
+| 料金 | 0円 | 月額980円（税込） |
 
 ## Cloudflareへ公開
 
